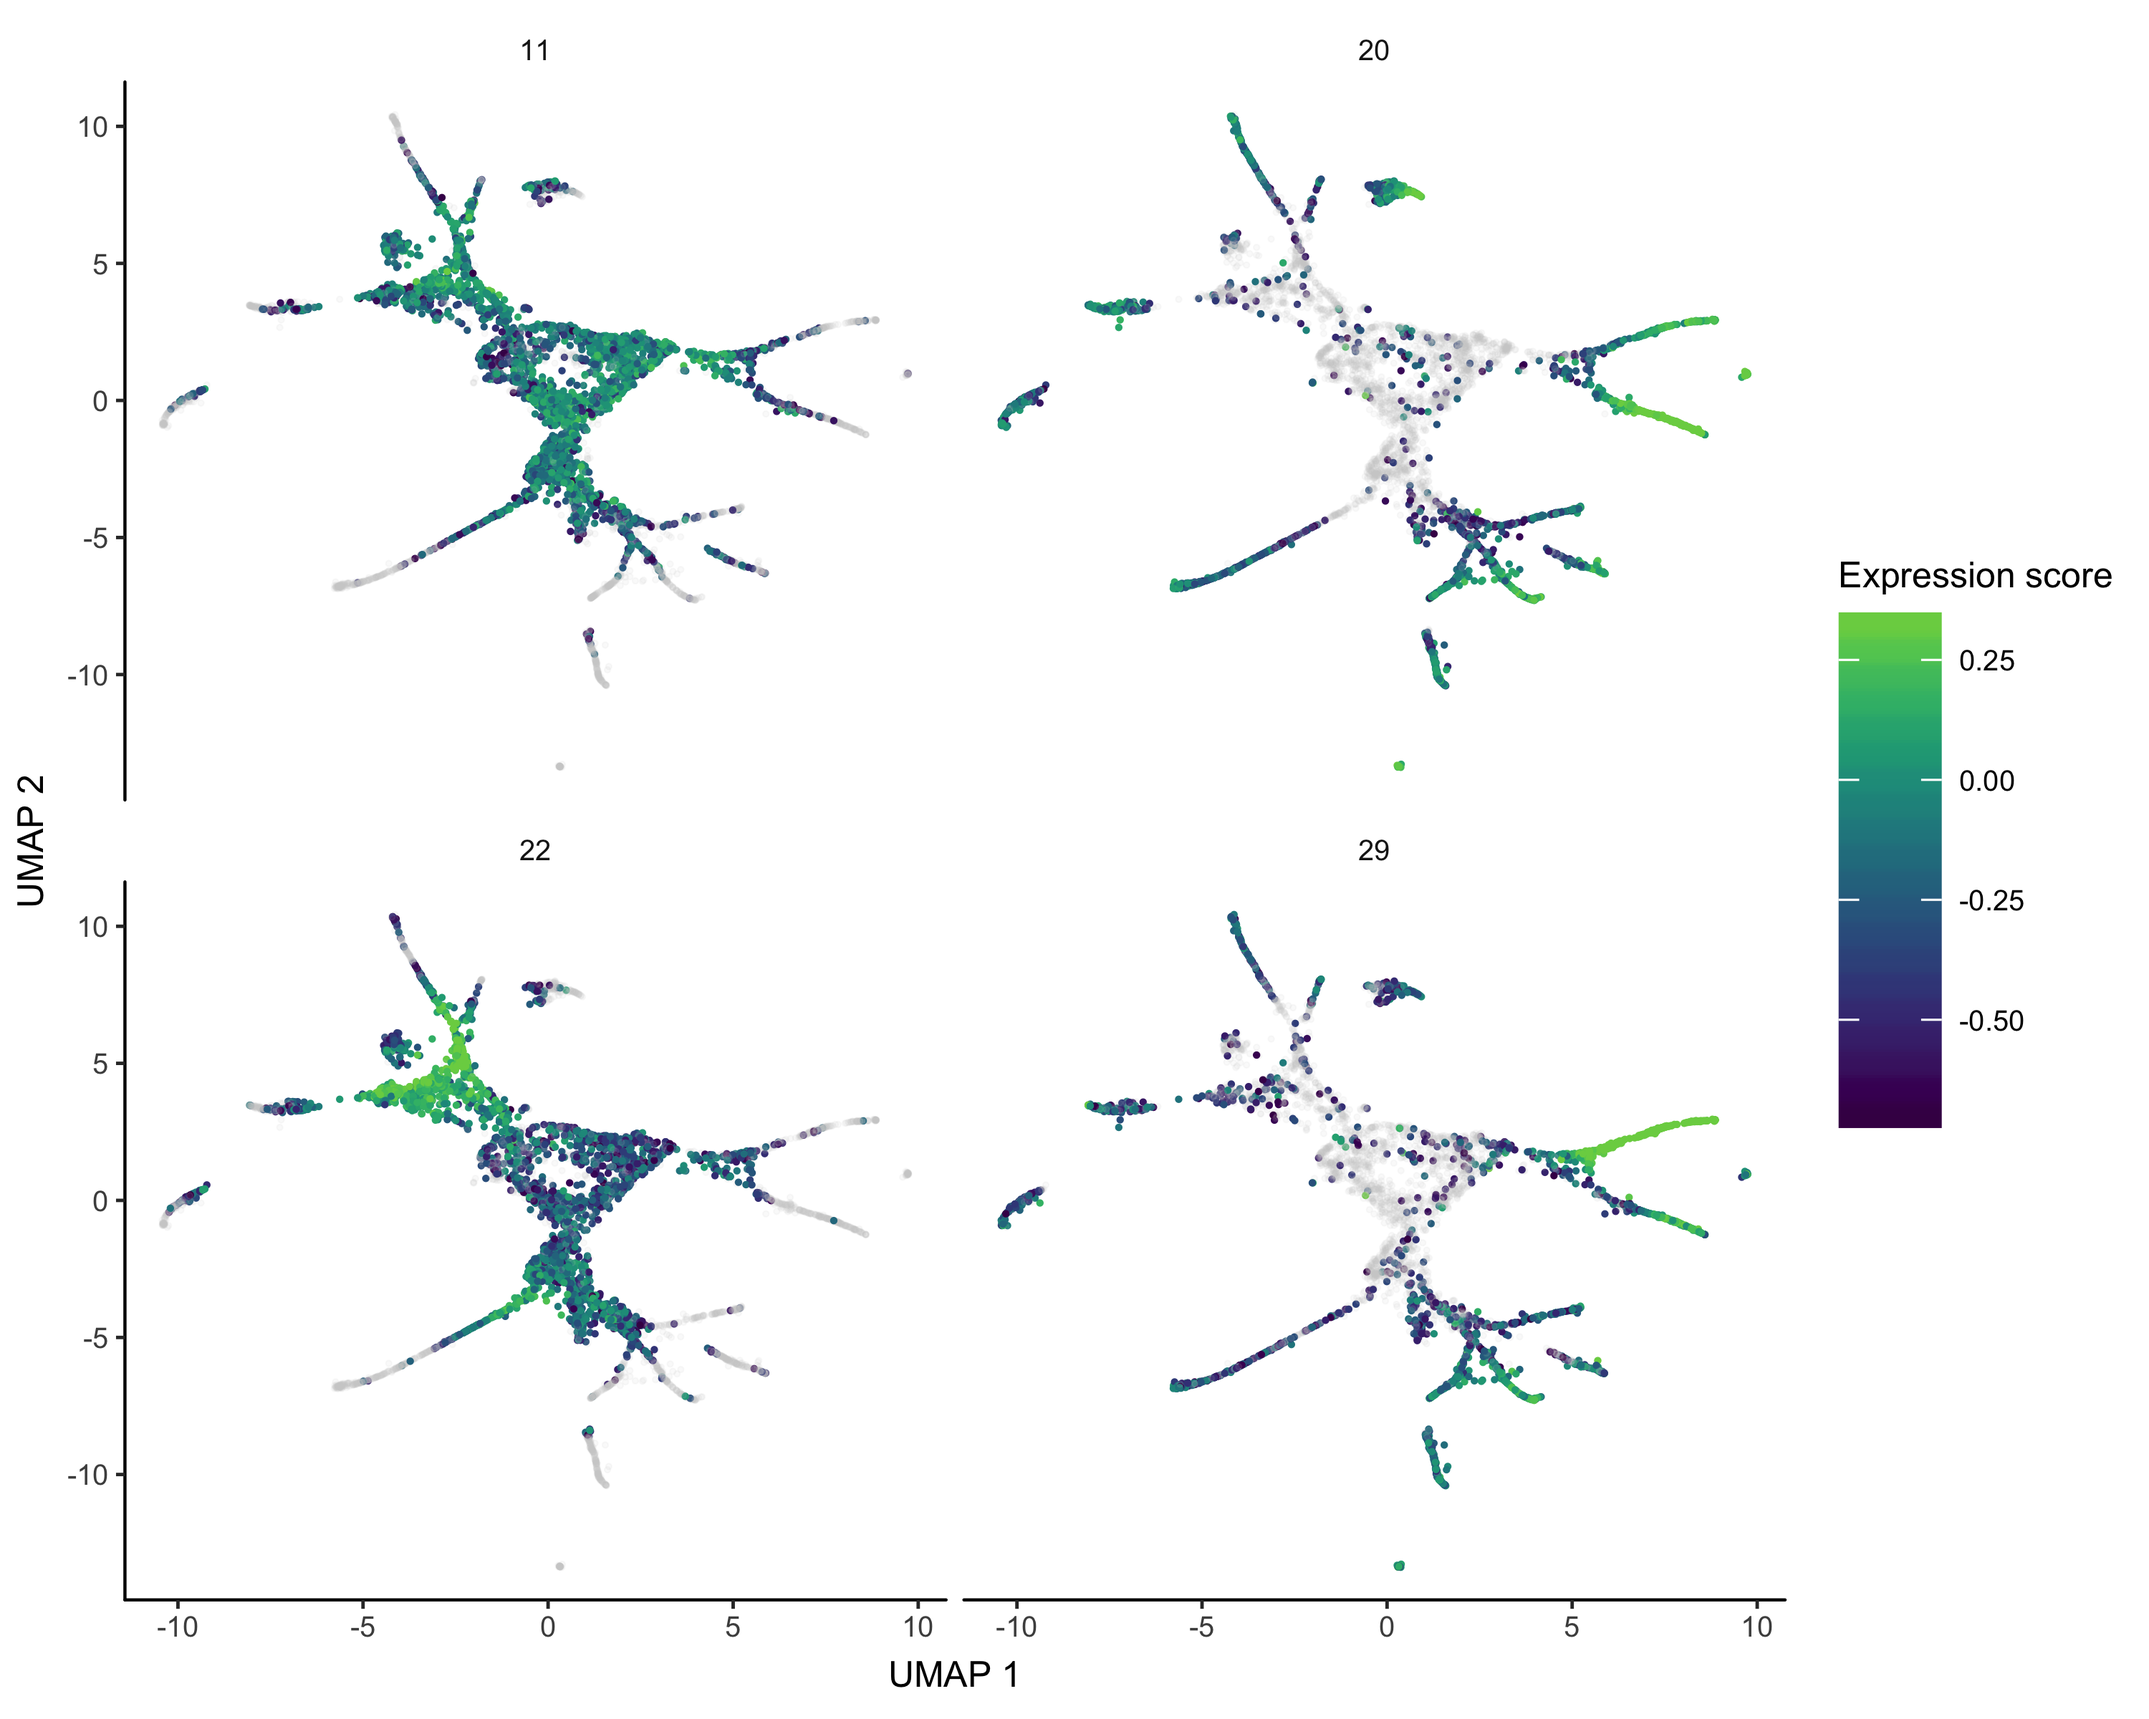
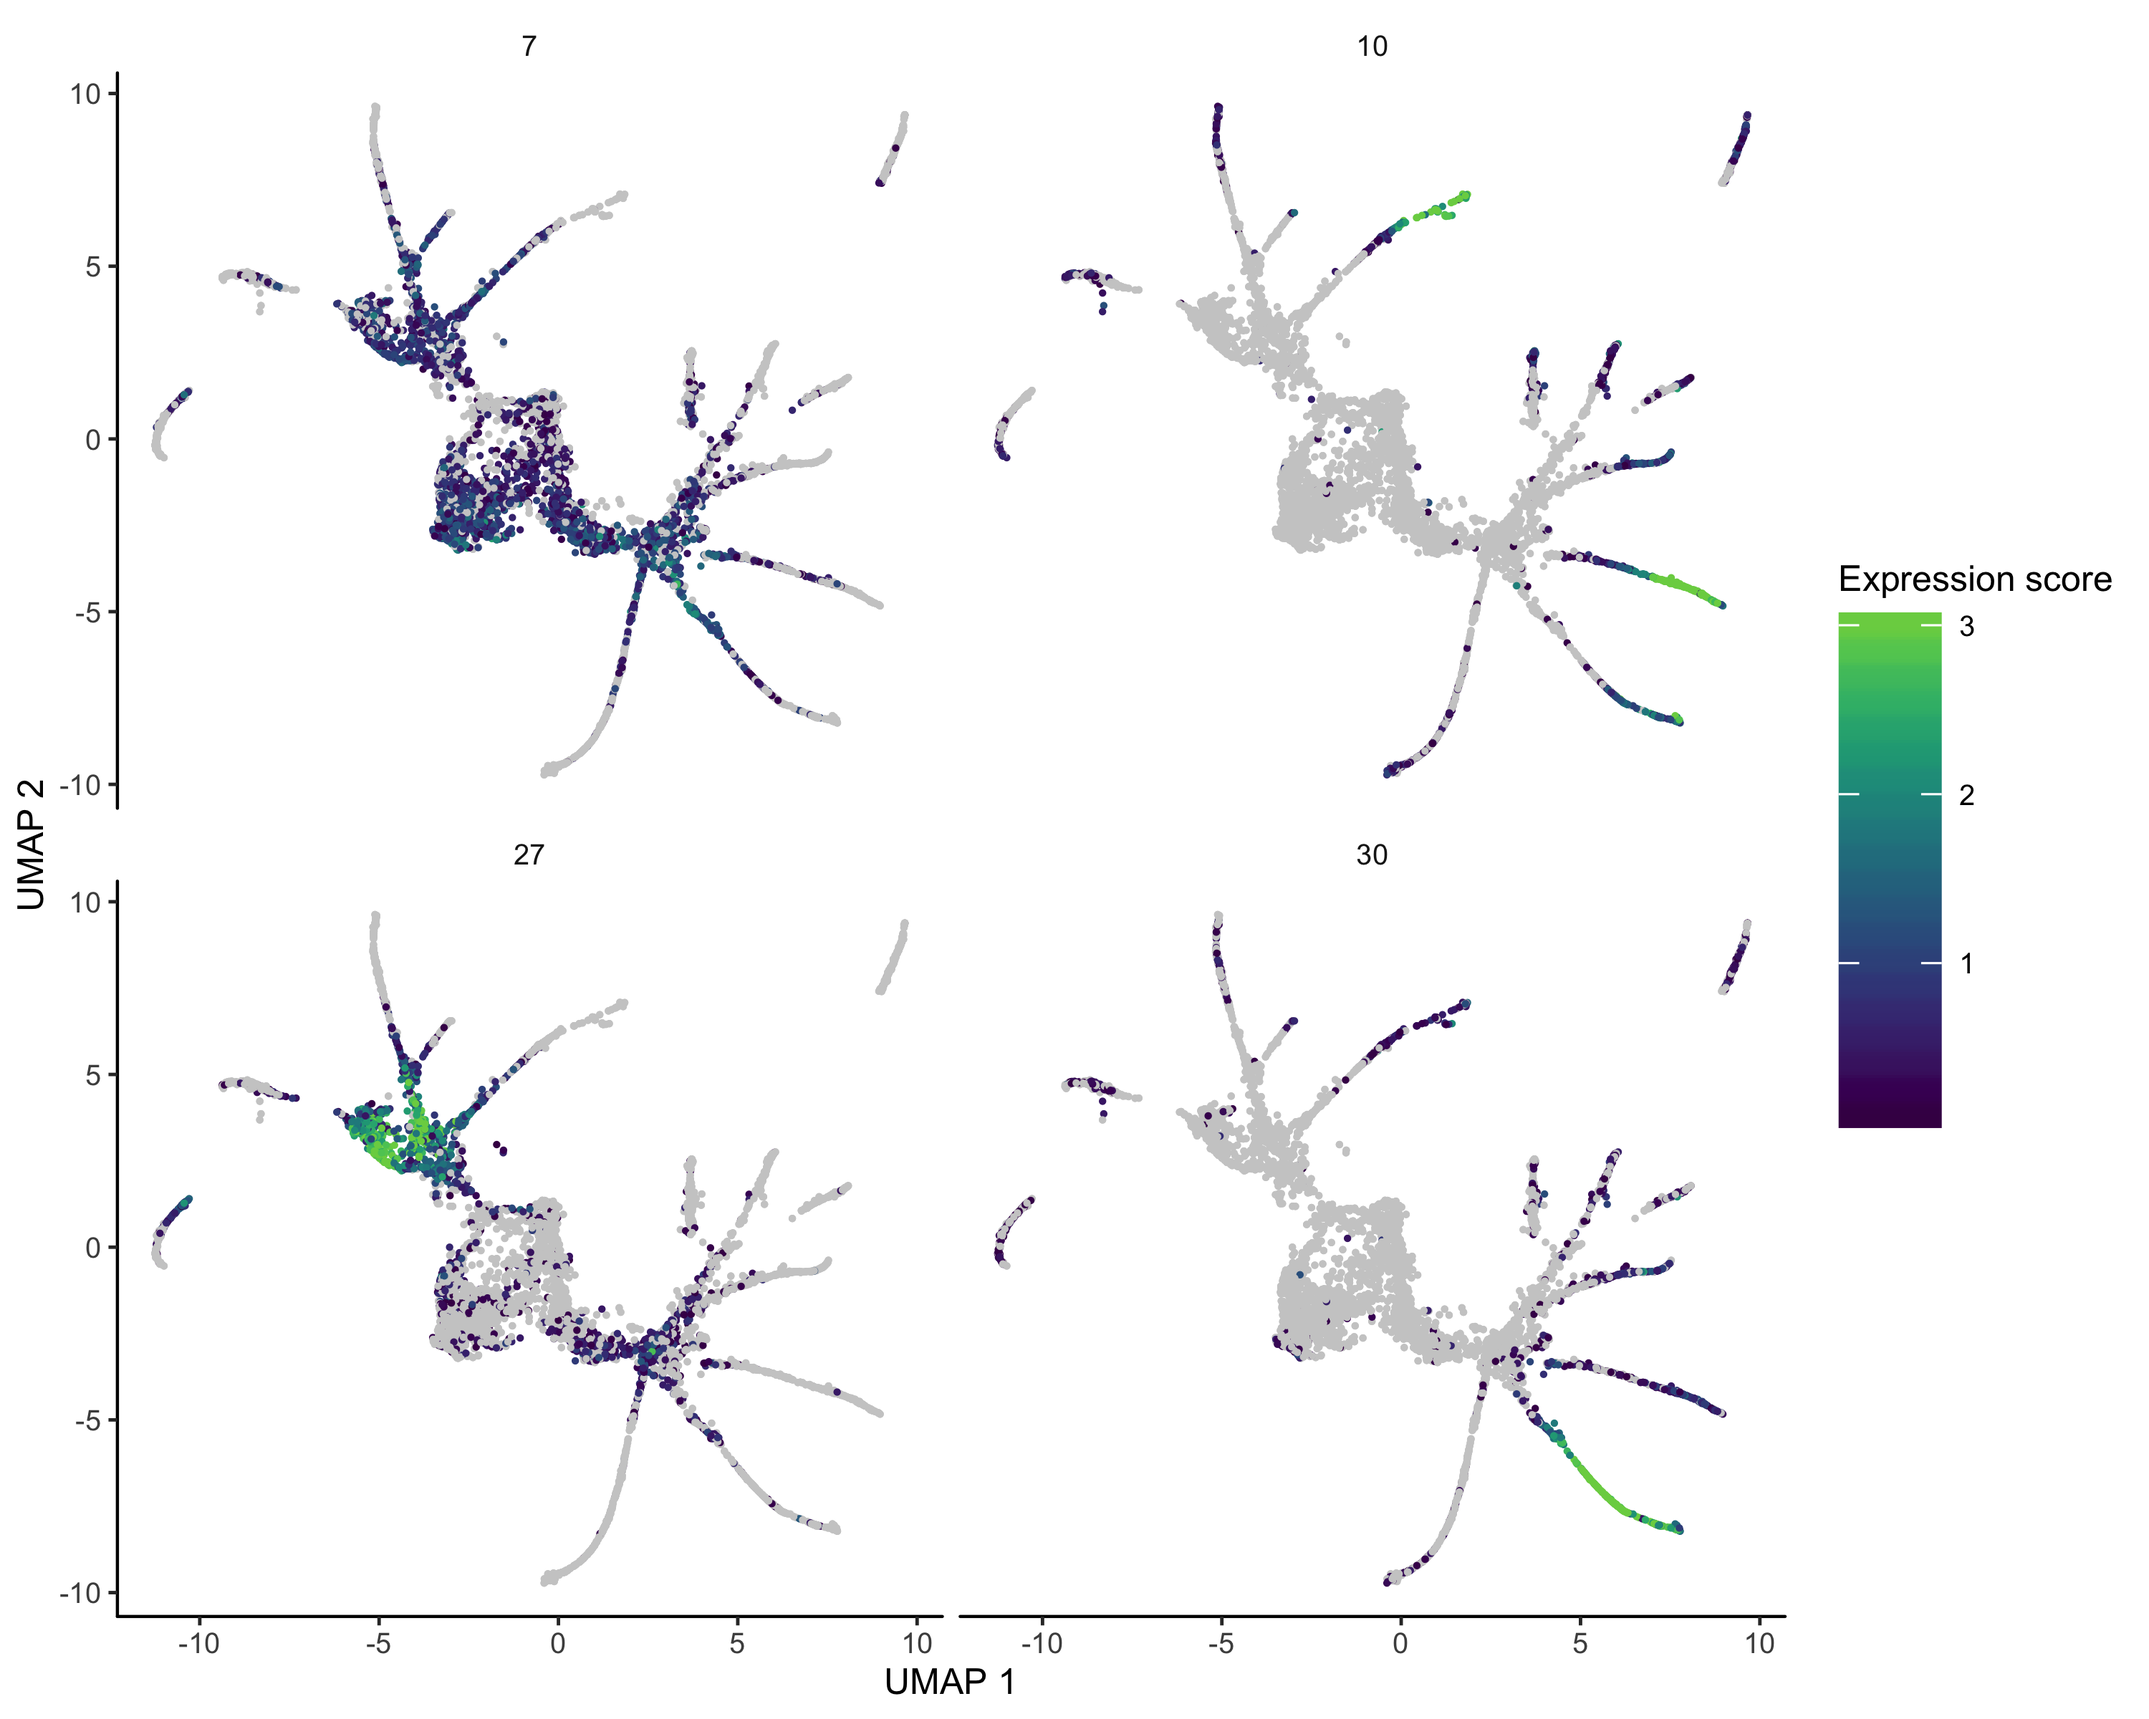
update embryo images and differential analysis sections to reflect leiden and alignment updates

diff --git a/docs/differential.html b/docs/differential.html
@@ -631,7 +631,7 @@ pheatmap::pheatmap(agg_mat,
       </p>
 {% highlight R %}
 plot_cells(cds,
-           genes=gene_module_df %>% filter(module %in% c(29,20, 11,22)),
+           genes=gene_module_df %>% filter(module %in% c(27, 10, 7, 30)),
            label_cell_groups=FALSE,
            show_trajectory_graph=FALSE)
 {% endhighlight %}
@@ -642,7 +642,7 @@ plot_cells(cds,
       
       <p>
         Monocle offers another plotting function that can sometimes give a clearer view of a gene's dynamics along a single path. 
-        Let's pick one such path, the AFD cells, which are found in clusters 22, 38, and 35:
+        Let's pick one such path, the AFD cells:
       </p>
 {% highlight R %}
 plot_cells(cds, show_trajectory_graph=FALSE)
@@ -659,7 +659,7 @@ plot_cells(cds, show_trajectory_graph=FALSE)
 {% highlight R %}
 AFD_genes <- c("gcy-8", "dac-1", "oig-8")
 AFD_lineage_cds <- cds[rowData(cds)$gene_short_name %in% AFD_genes,
-                       clusters(cds) %in% c(22, 28, 35)]
+                       colData(cds)$cell.type %in% c("AFD")]
 
 plot_genes_in_pseudotime(AFD_lineage_cds,
                          color_cells_by="embryo.time.bin",
@@ -704,7 +704,7 @@ pr_deg_ids <- row.names(subset(subset_pr_test_res, q_value < 0.05))
       </p>
       
 {% highlight R %}
-gene_module_df <- find_gene_modules(cds_subset[pr_deg_ids,], resolution=1e-2)
+gene_module_df <- find_gene_modules(cds_subset[pr_deg_ids,], resolution=0.001)
 {% endhighlight %}
       
       <p>
@@ -713,9 +713,7 @@ gene_module_df <- find_gene_modules(cds_subset[pr_deg_ids,], resolution=1e-2)
       </p>
       
 {% highlight R %}
-cell_group_df <- tibble::tibble(cell=row.names(colData(cds_subset)), 
-                                cell_group=clusters(cds_subset)[colnames(cds_subset)])
-agg_mat <- aggregate_gene_expression(cds_subset, gene_module_df, cell_group_df)
+agg_mat <- aggregate_gene_expression(cds_subset, gene_module_df)
 module_dendro <- hclust(dist(agg_mat))
 gene_module_df$module <- factor(gene_module_df$module, 
                                 levels = row.names(agg_mat)[module_dendro$order])
